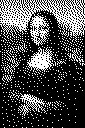
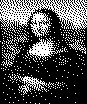
read from mpu; resize image for memory constraints

diff --git a/src/main.cpp b/src/main.cpp
@@ -1,58 +1,67 @@
 #include <Arduino.h>
+#include <SparkFunMPU9250-DMP.h>
 #include <TVout.h>     // import the library
 #include <fontALL.h>   // and its built-in fonts
 #include <image.h>
 
-TVout tv;   // instance of the TVout library
+TVout tv;
+MPU9250_DMP imu;
 
 void setup() {
   Serial.begin(9600);
   while (!Serial)
     ;
 
-  // init the TVout library and select a font
-  tv.begin(NTSC, 128, 96);
-  tv.clear_screen();
-  // tv.select_font(font6x8);
+  if (imu.begin() != INV_SUCCESS) {
+    while (1) {
+      Serial.println("Unable to communicate with MPU-9250");
+      Serial.println("Check connections, and try again.");
+      Serial.println();
+      delay(1000);
+    }
+  }
 
-  // // display some text!
-  // tv.println("Hello world!");
-  // delay(2000);
+  imu.setSensors(INV_XYZ_GYRO | INV_XYZ_ACCEL | INV_XYZ_COMPASS);
+  imu.setGyroFSR(2000);
+  imu.setAccelFSR(16);
+  imu.setLPF(5);
+  imu.setSampleRate(10);
+  imu.setCompassSampleRate(10);
 
-  // // show the various fonts
-  // tv.clear_screen();
-  // tv.println("I have a few fonts:");
-  // tv.select_font(font4x6);
-  // tv.println("4x6 font");
-  // tv.select_font(font6x8);
-  // tv.println("6x8 font");
-  // tv.select_font(font8x8);
-  // tv.println("8x8 font");
-  // tv.delay(4000);
+  char c;
+  if ((c = tv.begin(NTSC, 104, 87)) != 0) {
+    while (1) {
+      Serial.print(F("error tv begin "));
+      Serial.print(' ');
+      Serial.println((int)c);
+      delay(1000);
+    }
+  }
   tv.bitmap(0, 0, image);
-  // tv.bitmap(0, 0, TVOlogo);
 }
 
-
 void loop() {
+  if (imu.dataReady()) {
+    imu.update(UPDATE_ACCEL | UPDATE_GYRO | UPDATE_COMPASS);
+    float accelX = imu.calcAccel(imu.ax);
+    float accelY = imu.calcAccel(imu.ay);
+    float accelZ = imu.calcAccel(imu.az);
+    float gyroX = imu.calcGyro(imu.gx);
+    float gyroY = imu.calcGyro(imu.gy);
+    float gyroZ = imu.calcGyro(imu.gz);
+    float magX = imu.calcMag(imu.mx);
+    float magY = imu.calcMag(imu.my);
+    float magZ = imu.calcMag(imu.mz);
 
-  // clear the screen every frame
-  // tv.clear_screen();
+    Serial.println(String(accelX));
 
-  // tv.bitmap(0, 0, image, 0, 32, 25);
-  // tv.bitmap(0, 0, TVOlogo);
-
-  // circles
-  // args: x, y, diameter, color (WHITE, BLACK, or INVERT)
-  // tv.draw_circle(50,50, 30, WHITE);
-  // tv.draw_circle(tv.hres()-50,tv.vres()-50, 30, WHITE);
-
-  // rectangle
-  // args: x, y, width, height, stroke color, fill color
-  // tv.draw_rect(50,50, tv.hres()-1000,tv.vres()-100, WHITE, INVERT);
-
-  // lines
-  // args: start x, start y, end x, end y, stroke color
-  // tv.draw_line(0,0, tv.hres(),tv.vres(), INVERT);
-  // tv.draw_line(0,tv.vres(), tv.hres(),0, INVERT);
+    // Serial.println("Accel: " + String(accelX) + ", " + String(accelY) + ", " +
+    //                String(accelZ) + " g");
+    // Serial.println("Gyro: " + String(gyroX) + ", " + String(gyroY) + ", " +
+    //                String(gyroZ) + " dps");
+    // Serial.println("Mag: " + String(magX) + ", " + String(magY) + ", " +
+    //                String(magZ) + " uT");
+    // Serial.println("Time: " + String(imu.time) + " ms");
+    Serial.println(); // WTF
+  }
 }
